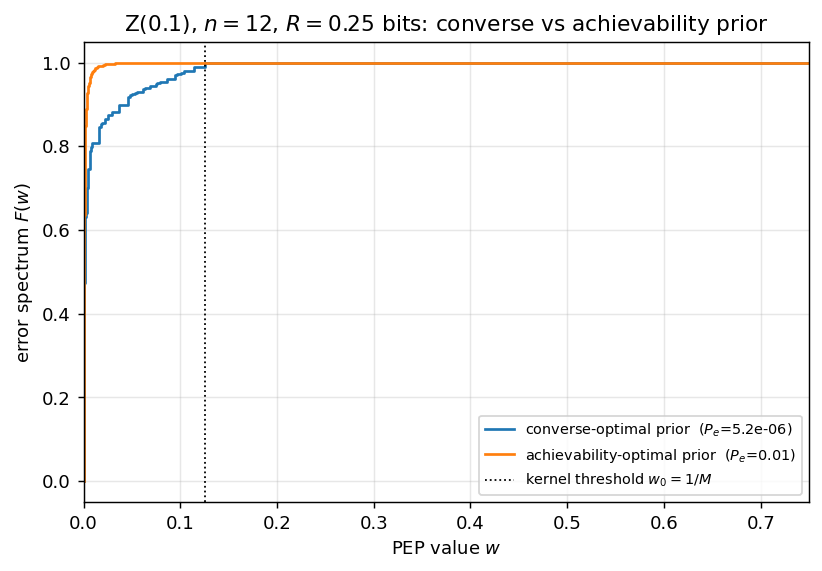
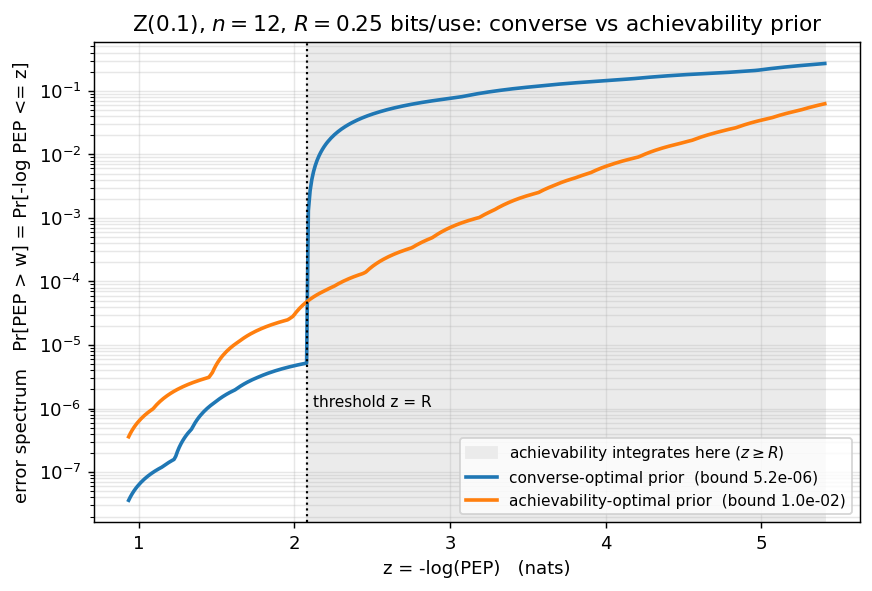
ex4: plot the error spectrum (log scale, z-domain), not the success CDF
The previous figure showed F(w)=Pr[PEP<=w] (the success/correct spectrum, ->1
at the threshold) on a linear w-axis, which hid the point. Redraw as the error
spectrum Pr[PEP>w]=Pr[-log PEP<=z] on a log y-axis vs z, with the threshold z=R
marked and the integration region z>=R shaded:
- converse-optimal prior dips to its minimum exactly at z=R, then blows up for z>R
- achievability-optimal prior stays orders of magnitude lower across z>=R
  (the region its integral actually pays for)

diff --git a/examples/ex4_fcurve_compare.py b/examples/ex4_fcurve_compare.py
@@ -1,14 +1,23 @@
 """
-F-curve comparison: converse-optimal prior vs achievability-optimal prior.
+Error spectrum: converse-optimal prior vs achievability-optimal prior.
 
 The converse and achievability bounds optimise the prior for *different*
-objectives — the converse for a single threshold (the meta-converse LP), the
-achievability for the whole kernel integral (the QP). Their optimal priors are
-genuinely different, and so are their error spectra (F-curves). This figure
-overlays the two F-curves at a fixed rate, with the kernel threshold marked.
+objectives:
 
-(Requested figure: "the F curve of the converse prior optimization vs the F
-curve of the optimal achievable curve.")
+  * the meta-converse minimises the error at a **single threshold** (rate R);
+  * the achievability bound integrates the error spectrum over the whole tail
+    ``z >= R`` (weighted by e^{-Lz}), so it must keep the spectrum low *across*
+    that region, not just at R.
+
+We plot the **error spectrum** ``1 - F(w) = Pr[PEP > w] = Pr[-log PEP <= z]``
+(with ``z = -log w``) on a log scale, for both optimal priors, at a fixed rate.
+The converse-optimal prior dips lowest exactly at ``z = R`` and then blows up for
+``z > R`` (it does not care about the tail); the achievability-optimal prior is a
+hair higher at ``z = R`` but orders of magnitude lower across the shaded
+integration region ``z >= R``.
+
+(Requested figure: "the F curve of the converse prior optimization vs the F curve
+of the optimal achievable curve.")
 """
 import numpy as np
 from _common import save, plt
@@ -22,33 +31,46 @@ W = z_channel(0.1)
 R_BITS = 0.25
 
 
+def err_spectrum(knots, F, w):
+    """1 - F(w) = Pr[PEP > w], clipped to stay positive on a log axis."""
+    return np.clip(1.0 - np.interp(w, knots, F), 1e-12, None)
+
+
 def main():
-    R = N * R_BITS * np.log(2.0)
+    R = N * R_BITS * np.log(2.0)          # total rate (nats); threshold z0 = R
     M = float(np.exp(R))
-    w0 = 1.0 / M
 
     tbc = TypeBasedChannel(W, N)
     aqp = AchievabilityQP(W, N)
-
-    # converse-optimal type prior and achievability-optimal type prior
     P_conv, pe_conv = tbc.optimize_prior(M)
     res = aqp.solve_rcu_plus(R)
     P_ach, pe_ach = res["Q_opt"], res["P_e_exact"]
 
-    k_c, F_c = tbc.compute_curve(P_conv)
-    k_a, F_a = tbc.compute_curve(P_ach)
+    kc, Fc = tbc.compute_curve(P_conv)
+    ka, Fa = tbc.compute_curve(P_ach)
 
-    fig, ax = plt.subplots(figsize=(7.2, 4.6))
-    ax.step(k_c, F_c, where="post", label=f"converse-optimal prior  ($P_e$={pe_conv:.3g})")
-    ax.step(k_a, F_a, where="post", label=f"achievability-optimal prior  ($P_e$={pe_ach:.3g})")
-    ax.axvline(w0, color="k", ls=":", lw=1, label=r"kernel threshold $w_0=1/M$")
-    ax.set_xlabel(r"PEP value $w$")
-    ax.set_ylabel(r"error spectrum $F(w)$")
-    ax.set_xlim(0, min(1.0, 6 * w0))
-    ax.set_title(f"Z(0.1), $n={N}$, $R={R_BITS}$ bits: converse vs achievability prior")
-    ax.legend(fontsize=8, loc="lower right")
-    ax.grid(True, alpha=0.3)
-    print(f"  converse P_e={pe_conv:.4g}, achievability P_e={pe_ach:.4g}")
+    z = np.linspace(0.45 * R, 2.6 * R, 400)
+    w = np.exp(-z)
+    sc = err_spectrum(kc, Fc, w)
+    sa = err_spectrum(ka, Fa, w)
+
+    fig, ax = plt.subplots(figsize=(7.6, 4.8))
+    ax.axvspan(R, z.max(), color="0.92",
+               label=r"achievability integrates here ($z\geq R$)")
+    ax.semilogy(z, sc, color="C0", lw=2,
+                label=f"converse-optimal prior  (bound {pe_conv:.1e})")
+    ax.semilogy(z, sa, color="C1", lw=2,
+                label=f"achievability-optimal prior  (bound {pe_ach:.1e})")
+    ax.axvline(R, color="k", ls=":", lw=1.2)
+    ax.annotate("threshold z = R", xy=(R, sc.min() * 3),
+                xytext=(R * 1.02, sc.min() * 30), fontsize=8.5)
+    ax.set_xlabel("z = -log(PEP)   (nats)")
+    ax.set_ylabel("error spectrum   Pr[PEP > w] = Pr[-log PEP <= z]")
+    ax.set_title(f"Z(0.1), $n={N}$, $R={R_BITS}$ bits/use: converse vs achievability prior")
+    ax.legend(fontsize=8.5, loc="lower right")
+    ax.grid(True, which="both", alpha=0.3)
+    print(f"  converse prior: lowest at z=R ({pe_conv:.2e}); blows up for z>R")
+    print(f"  achievability prior: low across z>=R (bound {pe_ach:.2e})")
     return save(fig, "ex4_fcurve_compare.png")
 
 

diff --git a/RESULTS.md b/RESULTS.md
@@ -49,18 +49,26 @@ surrogates are loose at low rate and tighten as the rate grows. *(n=10.)*
 
 ---
 
-## F-curve comparison — converse-optimal vs achievability-optimal prior
+## Error spectrum — converse-optimal vs achievability-optimal prior
 
-![F-curve compare](examples/figures/ex4_fcurve_compare.png)
+![error-spectrum compare](examples/figures/ex4_fcurve_compare.png)
 
-The converse and achievability bounds optimise the prior for *different*
-objectives, so their optimal priors — and their error spectra — genuinely differ.
-The achievability-optimal prior concentrates spectral mass below the kernel
-threshold `w_0 = 1/M`; the converse-optimal prior (tuned for the single
-meta-converse threshold) has a more gradual spectrum. *(Z(0.1), n=12, R=0.25 bits;
-the two priors' bound values, `5.2e-6` converse vs `1.0e-2` achievability, are
-different bound types — a converse lower bound and an achievability upper bound —
-illustrating the finite-`n` converse–achievability gap.)*
+The error spectrum `Pr[PEP > w] = Pr[-log PEP <= z]` (log scale, vs `z = -log PEP`)
+for the two optimal priors, at a fixed rate. The two bounds optimise the prior for
+*different* objectives, and it shows:
+
+- the **converse-optimal prior** dips to its minimum **exactly at the threshold
+  `z = R`** (the meta-converse is a single-threshold objective) and then **blows up
+  across `z > R`** — it pays nothing for the tail;
+- the **achievability-optimal prior** sits a hair higher at `z = R` but stays
+  **orders of magnitude lower across the whole `z >= R` region** — precisely
+  because the achievability bound *integrates* the spectrum there (weighted by
+  `e^{-Lz}`).
+
+*(Z(0.1), n=12, R=0.25 bits/use. The labelled bound values — `5.2e-6` converse,
+`1.0e-2` achievability — are different bound types: the converse is the
+single-point value at `z=R`, the achievability is the integral over `z>=R`, and
+their separation is the finite-`n` converse–achievability gap.)*
 
 ---
 